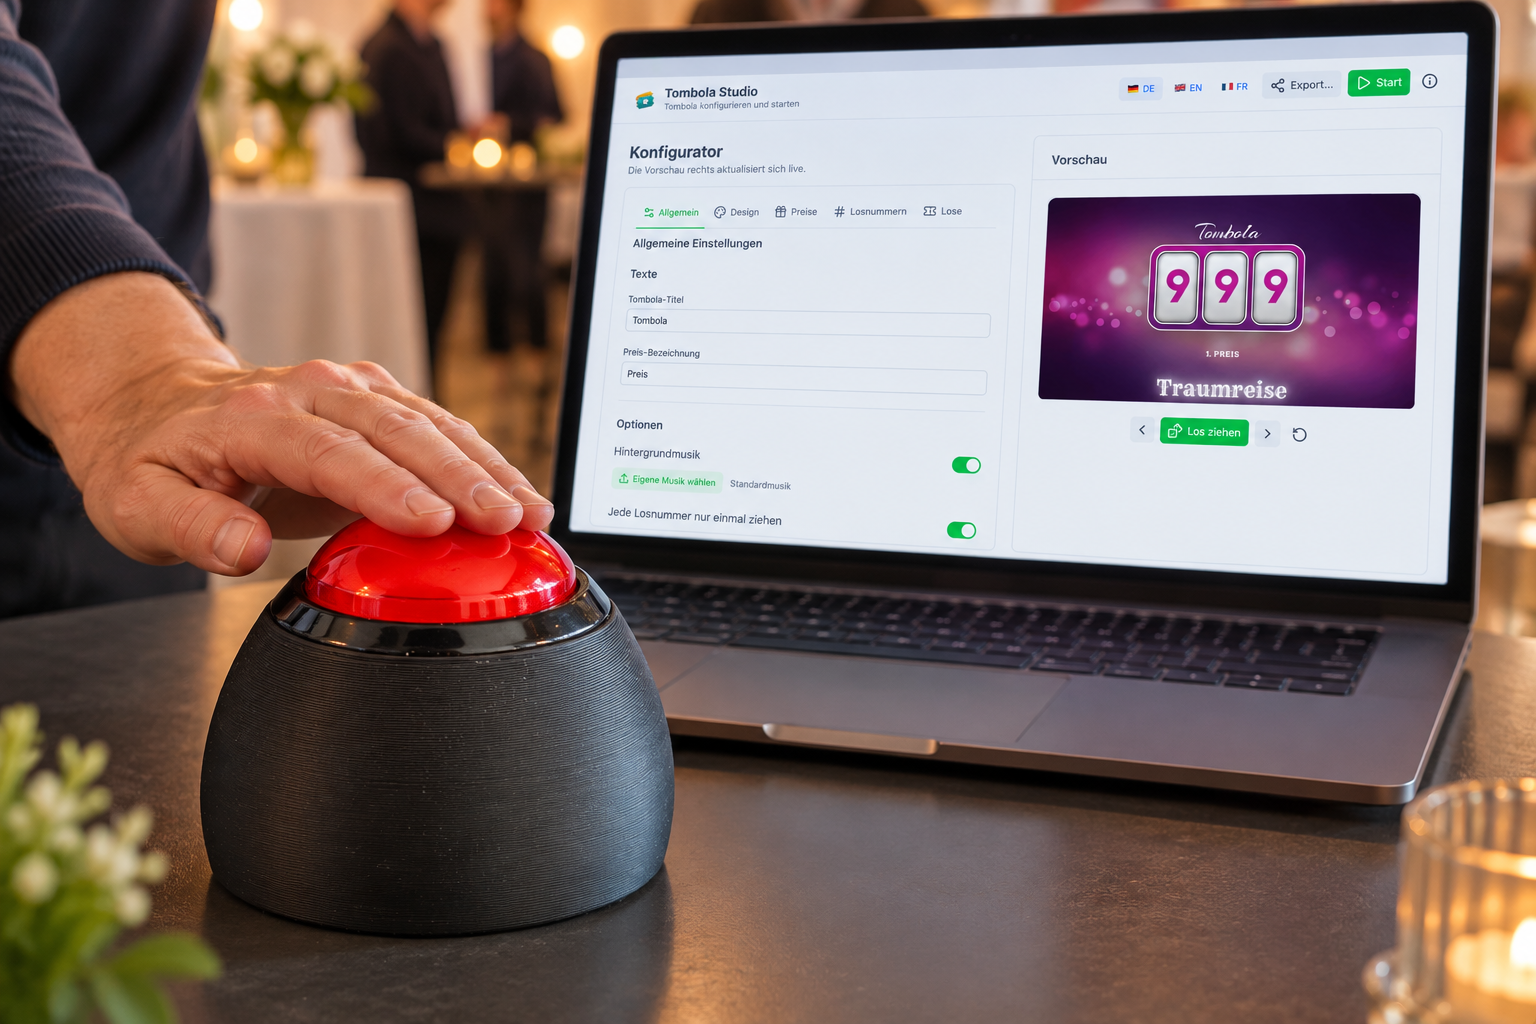
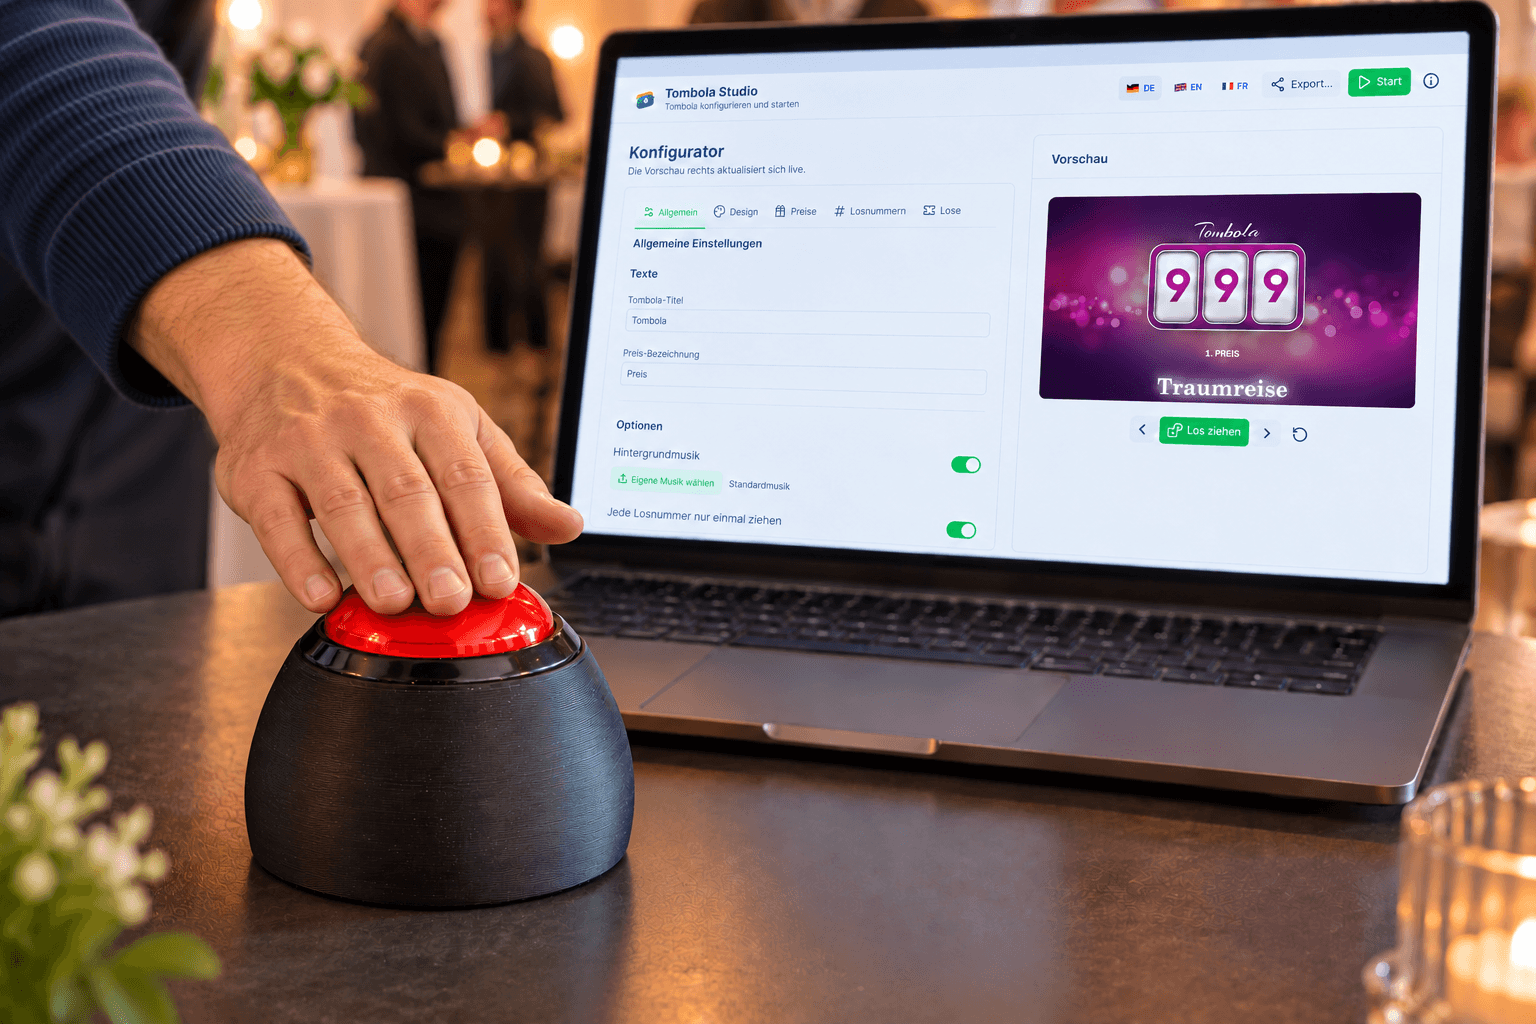
Update README.md

diff --git a/README.md b/README.md
@@ -1,8 +1,10 @@
 # BLE Quiz Buzzer — Bluetooth & USB Quiz Button
 
-A big push button that works like a tiny keyboard. Press it to send **A followed by Space** to a computer, tablet, or phone over Bluetooth Low Energy (BLE), or to a computer over USB. It consumes only around 10 µA in deep sleep.
+A big push button that works like a tiny keyboard. Press it to send **A followed by Space** to a computer, tablet, or phone over **Bluetooth Low Energy (BLE)**, or to a computer over **USB**. It consumes only around **10 µA in deep sleep**.
 
-No custom receiver or companion app is included. Your quiz, game, or presentation software must respond to those keys. The button itself does **not** produce sound: any sound must come from the receiving application.
+Looking for matching software? Check out **[Tombola Studio](https://github.com/TOLDOTECHNIK/Tombola-Studio)**, our companion software for running your tombola.
+
+No custom receiver is required. You can also use the button with any quiz, game, or presentation software that responds to these keys. The button itself **does not produce sound**—any sound comes from the receiving application.
 
 ![BLEBuzzer — photorealistic product illustration](docs/buzzer-hero.png)
 
